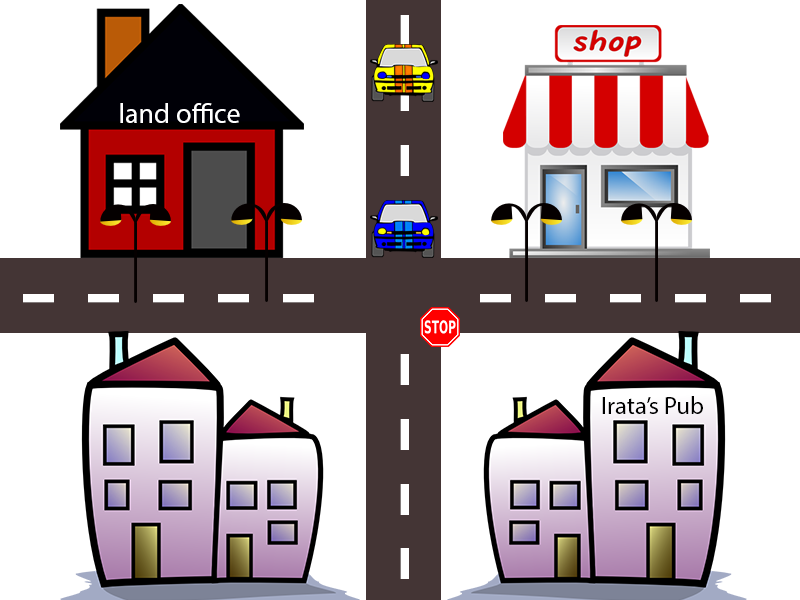
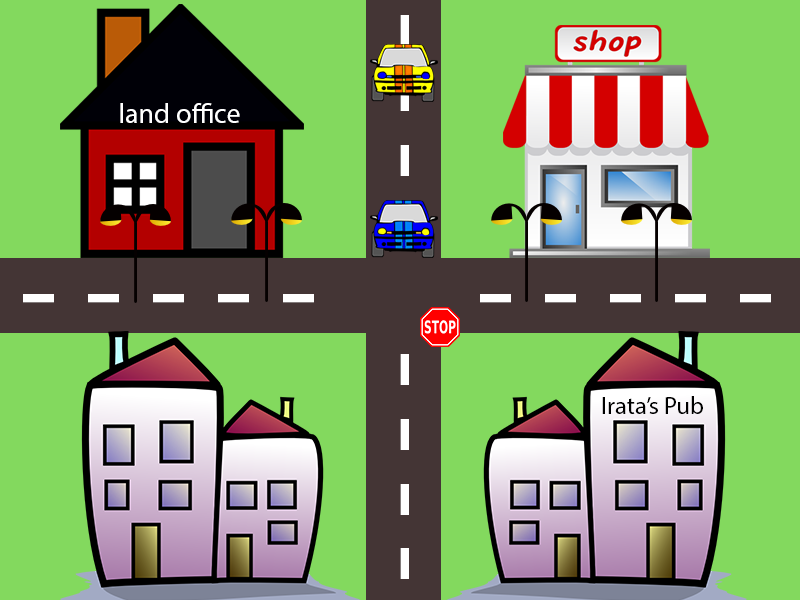
Added color to game screen and town screen; fixed mountain image sizes.

diff --git a/src/main/java/MULE/GameScreenController.java b/src/main/java/MULE/GameScreenController.java
@@ -8,6 +8,7 @@ import javafx.scene.Scene;
 import javafx.scene.image.Image;
 import javafx.scene.image.ImageView;
 import javafx.scene.input.MouseEvent;
+import javafx.scene.layout.AnchorPane;
 import javafx.scene.layout.GridPane;
 import javafx.stage.Stage;
 
@@ -16,6 +17,9 @@ public class GameScreenController {
 
     @FXML
     private GridPane Pane;
+
+    @FXML
+    private AnchorPane anchorPane;
 
     Image mountain1 = new Image(getClass().getResourceAsStream("/mountain1_tile.png"));
     Image mountain2 = new Image(getClass().getResourceAsStream("/mountain2_tile.png"));
@@ -31,20 +35,30 @@ public class GameScreenController {
     }
 
     private void buildMap() {
+        anchorPane.setStyle("-fx-background-color: #83d95e;");
         Tile[][] board = GamePlay.GAMECONFIG.getGAMEBOARD().getTiles();
 
         for (int i = 0; i < board.length; i++) {
             for (int j = 0; j < board[0].length; j++) {
                 if (board[i][j].getTerrain() == Tile.Terrain.ONEMOUNTAIN) {
-                    Pane.add(new ImageView(mountain1), j, i);
+                    ImageView mtn1 = new ImageView(mountain1);
+                    mtn1.setFitHeight(90);
+                    mtn1.setFitWidth(90);
+                    Pane.add(mtn1, j, i);
                 } else if (board[i][j].getTerrain() == Tile.Terrain.PLAIN) {
                     Pane.add(new ImageView(plain), j, i);
                 } else if (board[i][j].getTerrain() == Tile.Terrain.RIVER) {
                     Pane.add(new ImageView(river), j, i);
                 } else if (board[i][j].getTerrain() == Tile.Terrain.TWOMOUNTAIN) {
-                    Pane.add(new ImageView(mountain2), j, i);
+                    ImageView mtn2 = new ImageView(mountain2);
+                    mtn2.setFitHeight(90);
+                    mtn2.setFitWidth(90);
+                    Pane.add(mtn2, j, i);
                 } else if (board[i][j].getTerrain() == Tile.Terrain.THREEMOUNTAIN) {
-                    Pane.add(new ImageView(mountain3), j, i);
+                    ImageView mtn3 = new ImageView(mountain3);
+                    mtn3.setFitHeight(90);
+                    mtn3.setFitWidth(90);
+                    Pane.add(mtn3, j, i);
                 } else {
                     //town
                     ImageView townImage = new ImageView(town);
